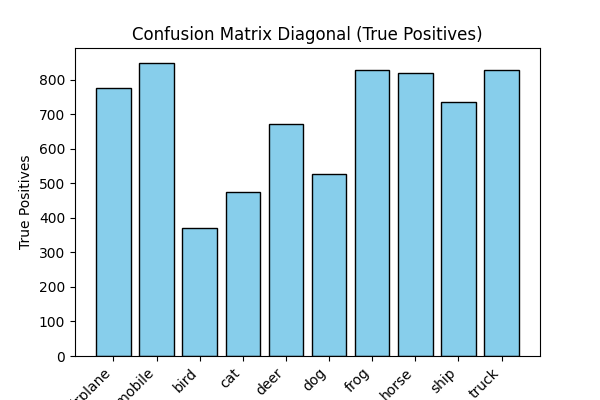
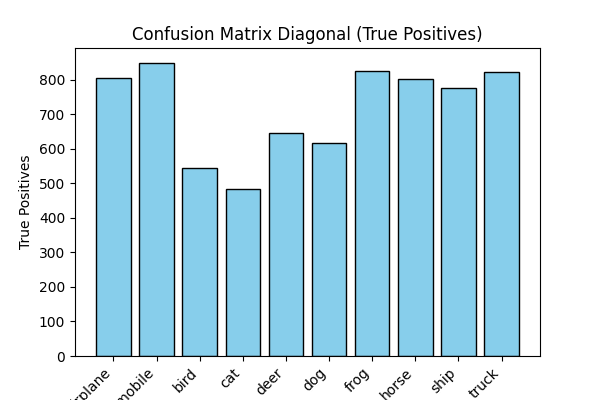
implemented dynamic learning rate

diff --git a/include/CNNBuilder.py b/include/CNNBuilder.py
@@ -1,6 +1,5 @@
-import tensorflow as tf
 
-from tensorflow.keras import layers, models, optimizers, regularizers
+from tensorflow.keras import layers, models, optimizers, callbacks # type: ignore
 
 from include.Logger import Logger
 
@@ -37,17 +36,36 @@ class CNNBuilder:
         self.model.add(layers.Flatten())
         return self
 
-    def add_dense_layer(self, units, activation):
+    def add_dense_layer(self, units, activation='relu'):
         self.model.add(layers.Dense(units, activation=activation))
         return self
     
     def add_data_augmentation(self, augmentation):
         self.model.add(augmentation)
         return self
+    
+    def compile_model(self, optimiser="adam", learning_rate=0.001, decay_factor=0.95, loss="categorical_crossentropy", metrics=['accuracy']):
+        if isinstance(optimiser, str):
+            if optimiser == "adam":
+                optimiser = optimizers.Adam(learning_rate=learning_rate)
+            elif optimiser == "sgd":
+                optimiser = optimizers.SGD(learning_rate=learning_rate, momentum=0.9)
+            elif optimiser == "rmsprop":
+                optimiser = optimizers.RMSprop(learning_rate=learning_rate)
+            else:
+                self.logger.error("Failed to compile model")
 
-    def compile_model(self, optimiser="adam", loss="categorical_crossentropy", metrics=['accuracy']):
+        # Compile the model
         self.model.compile(optimizer=optimiser, loss=loss, metrics=metrics)
+        self.lr_scheduler = callbacks.LearningRateScheduler(lambda epoch: learning_rate * decay_factor ** epoch)
+        self.callbacks_list = self.get_callbacks()
         return self
+    
+    def get_callbacks(self):
+        callbacks_list = []
+        if self.lr_scheduler:
+            callbacks_list.append(self.lr_scheduler)
+        return callbacks_list
 
     def build(self):
         return self.model

diff --git a/include/TensorModel.py b/include/TensorModel.py
@@ -1,11 +1,8 @@
 import numpy as np
 import tensorflow as tf
 
-from tensorflow.keras import layers, models
-from tensorflow.keras.datasets import cifar10
-from tensorflow.keras.utils import to_categorical
-
-from tensorflow.keras.layers import BatchNormalization, Dropout
+from tensorflow.keras.datasets import cifar10       # type: ignore
+from tensorflow.keras.utils import to_categorical   # type: ignore
 
 from sklearn.metrics import confusion_matrix
 
@@ -52,7 +49,7 @@ class TensorModel:
 
         return data_augmentation
     
-    def create_cnn(self, batch_normalisation=False) -> tf.keras.Model:
+    def create_cnn(self, batch_normalisation=False, learning_rate=0.001, decay_factor=0.95) -> tf.keras.Model:
         # Get data augmentation
         data_augmentation = self.get_augmentation()
 
@@ -73,7 +70,7 @@ class TensorModel:
                     .add_batch_norm()
                     .add_dropout(0.5)
                     .add_dense_layer(10, activation="softmax")
-                    .compile_model()
+                    .compile_model(learning_rate=learning_rate, decay_factor=decay_factor)
                     .build()
                     )
         else:   
@@ -87,7 +84,7 @@ class TensorModel:
                     .add_flaten_layer()
                     .add_dense_layer(128, activation="relu")
                     .add_dense_layer(10, activation="softmax")
-                    .compile_model()
+                    .compile_model(learning_rate=learning_rate, decay_factor=decay_factor)
                     .build()
                     )
 
